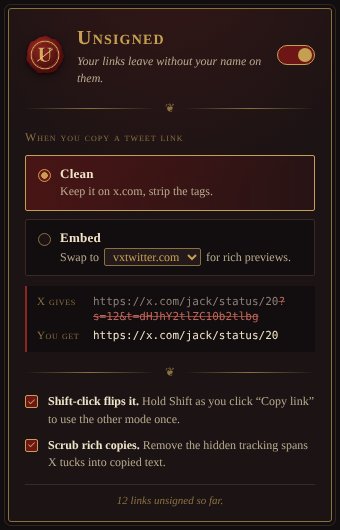
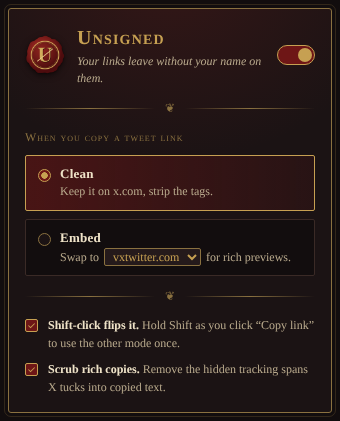
Add Firefox build; drop popup preview and copy counter
- Firefox package built from the same code: platform/firefox.json overlays
  the manifest (event-page background, gecko id, host permissions,
  data_collection_permissions: none). Requires Firefox 140 / Android 142.
- build.mjs: dependency-free script producing Chrome and Firefox zips.
- Use browser ?? chrome so storage/runtime/action calls are promise-based
  in both browsers.
- Popup: remove the before/after link preview and the copied-links tally;
  background no longer keeps a count.

diff --git a/popup/popup.css b/popup/popup.css
@@ -3,14 +3,12 @@
   --ink-2: #1b1314;
   --ink-3: #251a1b;
   --oxblood: #6e1616;
-  --oxblood-hi: #8f2420;
   --gold: #c6a052;
   --gold-dim: #8a7140;
   --gold-faint: rgba(198, 160, 82, 0.18);
   --parchment: #efe3c8;
   --parchment-dim: #b8a98c;
   --serif: "Iowan Old Style", "Palatino Linotype", Palatino, "Book Antiqua", Georgia, serif;
-  --mono: "Cascadia Mono", Consolas, "SF Mono", Menlo, monospace;
   color-scheme: dark;
 }
 
@@ -27,7 +25,7 @@ body { width: 340px; }
 
 .card {
   margin: 8px;
-  padding: 14px 16px 12px;
+  padding: 14px 16px 16px;
   background:
     radial-gradient(120% 80% at 50% -10%, rgba(143, 36, 32, 0.22), transparent 60%),
     var(--ink-2);
@@ -139,29 +137,6 @@ select {
 }
 select:focus-visible { outline: 1px solid var(--gold); }
 
-/* ── Preview ────────────────────────────────────────── */
-.preview {
-  margin-top: 10px;
-  padding: 8px 10px;
-  background: var(--ink);
-  border-left: 2px solid var(--oxblood-hi);
-  font-size: 11px;
-}
-.preview .row { display: flex; gap: 8px; align-items: baseline; }
-.preview .row + .row { margin-top: 3px; }
-.preview .tag {
-  flex: none; width: 48px;
-  font-variant: small-caps; letter-spacing: 0.06em;
-  color: var(--gold-dim);
-}
-.preview code {
-  font: 11px/1.4 var(--mono);
-  overflow-wrap: anywhere;
-}
-.preview .before code { color: #8c7f75; }
-.preview .before code s { color: #c0645a; text-decoration-color: rgba(192, 100, 90, 0.7); }
-.preview .after code { color: var(--parchment); }
-
 /* ── Options ────────────────────────────────────────── */
 .opts { list-style: none; margin: 0; padding: 0; display: grid; gap: 9px; }
 .opt { display: flex; gap: 10px; align-items: flex-start; cursor: pointer; color: var(--parchment-dim); font-size: 12px; }
@@ -177,14 +152,5 @@ select:focus-visible { outline: 1px solid var(--gold); }
 .opt input:checked + .box::after { content: "✓"; color: var(--gold); font-size: 10px; line-height: 1; }
 .opt input:focus-visible + .box { outline: 1px solid var(--gold); outline-offset: 2px; }
 
-/* ── Footer ─────────────────────────────────────────── */
-.foot {
-  margin-top: 12px; padding-top: 8px;
-  border-top: 1px solid #3a2a26;
-  text-align: center;
-  font-style: italic; font-size: 11px;
-  color: var(--gold-dim);
-}
-
 /* ── Disabled state ─────────────────────────────────── */
-body.off .modes, body.off .preview, body.off .opts { opacity: 0.4; pointer-events: none; filter: grayscale(0.6); }
+body.off .modes, body.off .opts { opacity: 0.4; pointer-events: none; filter: grayscale(0.6); }

diff --git a/popup/popup.js b/popup/popup.js
@@ -2,9 +2,9 @@
 (() => {
   'use strict';
 
+  const ext = globalThis.browser ?? globalThis.chrome;
   const R = globalThis.__UNSIGNED_REWRITE__;
   const $ = (id) => document.getElementById(id);
-  const SAMPLE = 'https://x.com/jack/status/20?s=12&t=dHJhY2tlZC10b2tlbg';
 
   let settings = { ...R.DEFAULTS };
 
@@ -17,10 +17,6 @@
     select.append(opt);
   }
 
-  function escapeHtml(s) {
-    return s.replace(/[&<>"]/g, (c) => ({ '&': '&amp;', '<': '&lt;', '>': '&gt;', '"': '&quot;' }[c]));
-  }
-
   function render() {
     $('enabled').checked = settings.enabled;
     document.body.classList.toggle('off', !settings.enabled);
@@ -28,16 +24,12 @@
     select.value = settings.embedHost;
     $('shiftFlip').checked = settings.shiftFlip;
     $('scrubHtml').checked = settings.scrubHtml;
-
-    const [base, query] = SAMPLE.split('?');
-    $('pvBefore').innerHTML = `${escapeHtml(base)}<s>?${escapeHtml(query)}</s>`;
-    $('pvAfter').textContent = R.rewriteText(SAMPLE, settings);
   }
 
   async function save(patch) {
     settings = { ...settings, ...patch };
     render();
-    await chrome.storage.sync.set({ settings });
+    await ext.storage.sync.set({ settings });
   }
 
   $('enabled').addEventListener('change', (e) => save({ enabled: e.target.checked }));
@@ -45,27 +37,12 @@
     radio.addEventListener('change', (e) => { if (e.target.checked) save({ mode: e.target.value }); });
   }
   select.addEventListener('change', (e) => save({ embedHost: e.target.value, mode: 'vx' }));
-  select.addEventListener('click', (e) => e.stopPropagation());
   $('shiftFlip').addEventListener('change', (e) => save({ shiftFlip: e.target.checked }));
   $('scrubHtml').addEventListener('change', (e) => save({ scrubHtml: e.target.checked }));
 
-  function renderTally(count) {
-    $('tally').textContent = count
-      ? `${count.toLocaleString()} link${count === 1 ? '' : 's'} unsigned so far.`
-      : 'No links unsigned yet.';
-  }
-
-  chrome.storage.onChanged.addListener((changes, area) => {
-    if (area === 'local' && changes.count) renderTally(changes.count.newValue || 0);
-  });
-
   (async () => {
-    const [{ settings: stored = {} }, { count = 0 }] = await Promise.all([
-      chrome.storage.sync.get('settings'),
-      chrome.storage.local.get({ count: 0 })
-    ]);
+    const { settings: stored = {} } = await ext.storage.sync.get('settings');
     settings = { ...R.DEFAULTS, ...stored };
     render();
-    renderTally(count);
   })();
 })();

diff --git a/background.js b/background.js
@@ -1,26 +1,25 @@
 /*
- * Unsigned — service worker.
- * Flashes a badge on the toolbar icon when a copied link was rewritten, and keeps a running tally.
+ * Unsigned — background (service worker in Chrome, event page in Firefox).
+ * Flashes a badge on the toolbar icon when a copied link was rewritten.
  */
+const ext = globalThis.browser ?? globalThis.chrome;
 const BADGE_MS = 1600;
 const timers = new Map();
 
-chrome.runtime.onMessage.addListener((msg, sender) => {
+ext.runtime.onMessage.addListener((msg, sender) => {
   if (!msg || msg.type !== 'unsigned:did' || !sender.tab) return;
   const tabId = sender.tab.id;
 
   let mode = 'clean';
   try { mode = JSON.parse(msg.detail || '{}').mode || 'clean'; } catch { /* default */ }
 
-  chrome.action.setBadgeBackgroundColor({ tabId, color: mode === 'vx' ? '#b08a3e' : '#7a1c1c' });
-  if (chrome.action.setBadgeTextColor) chrome.action.setBadgeTextColor({ tabId, color: '#f4ead2' });
-  chrome.action.setBadgeText({ tabId, text: mode === 'vx' ? 'vx' : '✓' });
+  ext.action.setBadgeBackgroundColor({ tabId, color: mode === 'vx' ? '#b08a3e' : '#7a1c1c' });
+  if (ext.action.setBadgeTextColor) ext.action.setBadgeTextColor({ tabId, color: '#f4ead2' });
+  ext.action.setBadgeText({ tabId, text: mode === 'vx' ? 'vx' : '✓' });
 
   clearTimeout(timers.get(tabId));
   timers.set(tabId, setTimeout(() => {
-    chrome.action.setBadgeText({ tabId, text: '' }).catch(() => {});
+    Promise.resolve(ext.action.setBadgeText({ tabId, text: '' })).catch(() => {});
     timers.delete(tabId);
   }, BADGE_MS));
-
-  chrome.storage.local.get({ count: 0 }).then(({ count }) => chrome.storage.local.set({ count: count + 1 }));
 });

diff --git a/src/bridge.js b/src/bridge.js
@@ -1,32 +1,35 @@
 /*
  * Unsigned — settings bridge (isolated world, document_start).
- * The page hook can't read chrome.storage, so this relays settings in and copy notices out.
+ * The page hook can't read extension storage, so this relays settings in and copy notices out.
  */
 (() => {
   'use strict';
 
+  const ext = globalThis.browser ?? globalThis.chrome;
   const EVT_SETTINGS = 'unsigned:settings';
   const EVT_HELLO = 'unsigned:hello';
   const EVT_DID = 'unsigned:did';
 
-  const alive = () => { try { return !!chrome.runtime?.id; } catch { return false; } };
+  const alive = () => { try { return !!ext.runtime?.id; } catch { return false; } };
 
   async function push() {
     if (!alive()) return;
     try {
-      const { settings = {} } = await chrome.storage.sync.get('settings');
+      const { settings = {} } = await ext.storage.sync.get('settings');
       document.dispatchEvent(new CustomEvent(EVT_SETTINGS, { detail: JSON.stringify(settings) }));
     } catch { /* extension reloaded underneath us */ }
   }
 
   document.addEventListener(EVT_HELLO, push);
-  chrome.storage.onChanged.addListener((changes, area) => {
+  ext.storage.onChanged.addListener((changes, area) => {
     if (area === 'sync' && changes.settings) push();
   });
   push();
 
   document.addEventListener(EVT_DID, (e) => {
     if (!alive()) return;
-    try { chrome.runtime.sendMessage({ type: 'unsigned:did', detail: e.detail }).catch(() => {}); } catch { /* ignore */ }
+    try {
+      Promise.resolve(ext.runtime.sendMessage({ type: 'unsigned:did', detail: e.detail })).catch(() => {});
+    } catch { /* ignore */ }
   });
 })();

diff --git a/popup/popup.html b/popup/popup.html
@@ -45,11 +45,6 @@
       </label>
     </fieldset>
 
-    <div class="preview" aria-live="polite">
-      <div class="row before"><span class="tag">X gives</span><code id="pvBefore"></code></div>
-      <div class="row after"><span class="tag">You get</span><code id="pvAfter"></code></div>
-    </div>
-
     <div class="rule"><span>❦</span></div>
 
     <ul class="opts">
@@ -68,10 +63,6 @@
         </label>
       </li>
     </ul>
-
-    <footer class="foot">
-      <span id="tally">No links unsigned yet.</span>
-    </footer>
   </main>
 
   <script src="../src/rewrite.js"></script>

diff --git a/README.md b/README.md
@@ -1,6 +1,6 @@
 # Unsigned
 
-A Chrome / Brave extension that strips the sharer-tracking tags X adds to copied tweet links, and can optionally hand you a vxtwitter (or fixvx / fxtwitter / fixupx) link instead.
+A browser extension for Chrome, Brave, Edge and Firefox that strips the sharer-tracking tags X adds to copied tweet links, and can optionally hand you a vxtwitter (or fixvx / fxtwitter / fixupx) link instead.
 
 ```
 X gives:  https://x.com/jack/status/20?s=12&t=dHJhY2tlZC10b2tlbg
@@ -10,16 +10,26 @@ Embed:    https://vxtwitter.com/jack/status/20
 
 The `t=` value is a session-bound token that identifies whoever copied the link; `s=` marks the client it came from.
 
-<p align="center"><img src="docs/popup.png" width="340" alt="The Unsigned popup: Clean and Embed modes, a live before/after preview, and options for Shift-click and rich-copy scrubbing"></p>
+<p align="center"><img src="docs/popup.png" width="340" alt="The Unsigned popup: Clean and Embed modes, with options for Shift-click and rich-copy scrubbing"></p>
 
 ## Install
 
-1. Download `unsigned-<version>.zip` from [Releases](../../releases) and unzip it somewhere permanent.
-2. Go to `chrome://extensions` (or `brave://extensions`) and turn on **Developer mode**.
-3. **Load unpacked** → pick the `unsigned` folder.
+### Chrome, Brave, Edge
+
+1. Download `unsigned-chrome-<version>.zip` from [Releases](../../releases) and unzip it into its own folder somewhere permanent.
+2. Go to `chrome://extensions` (or `brave://extensions`, `edge://extensions`) and turn on **Developer mode**.
+3. **Load unpacked** → pick that folder.
 4. Reload any open x.com tabs.
 
-Needs Chrome/Brave 111 or later.
+Needs version 111 or later.
+
+### Firefox
+
+Install from Firefox Add-ons (listing pending).
+
+To try it before then: download `unsigned-firefox-<version>.zip` from [Releases](../../releases), unzip it, open `about:debugging` → **This Firefox** → **Load Temporary Add-on…** and pick `manifest.json`. Temporary add-ons are removed when Firefox restarts.
+
+Needs Firefox 140 or later (142 on Android).
 
 ## Use
 
@@ -33,6 +43,16 @@ Embed conversion only happens when the copied thing is a single tweet link. Link
 
 ## How it works
 
-`src/hook.js` runs in the page at `document_start` and wraps every route X can use to write the clipboard: `navigator.clipboard.writeText` / `write`, `clipboardData.setData` inside copy/cut handlers, and plain `execCommand('copy')` of a selected link. The rewrite rules live in `src/rewrite.js`. `src/bridge.js` relays settings in from `chrome.storage` (the page context can't read it).
+`src/hook.js` runs in the page at `document_start` and wraps every route X can use to write the clipboard: `navigator.clipboard.writeText` / `write`, `clipboardData.setData` inside copy/cut handlers, and plain `execCommand('copy')` of a selected link. The rewrite rules live in `src/rewrite.js`. `src/bridge.js` relays settings in from extension storage (the page context can't read it).
 
-No network requests, no analytics. Permissions: `storage`, plus access to x.com / twitter.com.
+No network requests, no analytics, nothing stored but your settings. Permissions: `storage`, plus access to x.com / twitter.com.
+
+## Building
+
+The repo root is the Chrome build as-is, so **Load unpacked** works on it directly. To produce both release packages:
+
+```
+node build.mjs
+```
+
+This writes `dist/unsigned-chrome-<version>.zip` and `dist/unsigned-firefox-<version>.zip` (plus unpacked copies of each). The Firefox build is the same code with `platform/firefox.json` merged over `manifest.json`. No dependencies.
